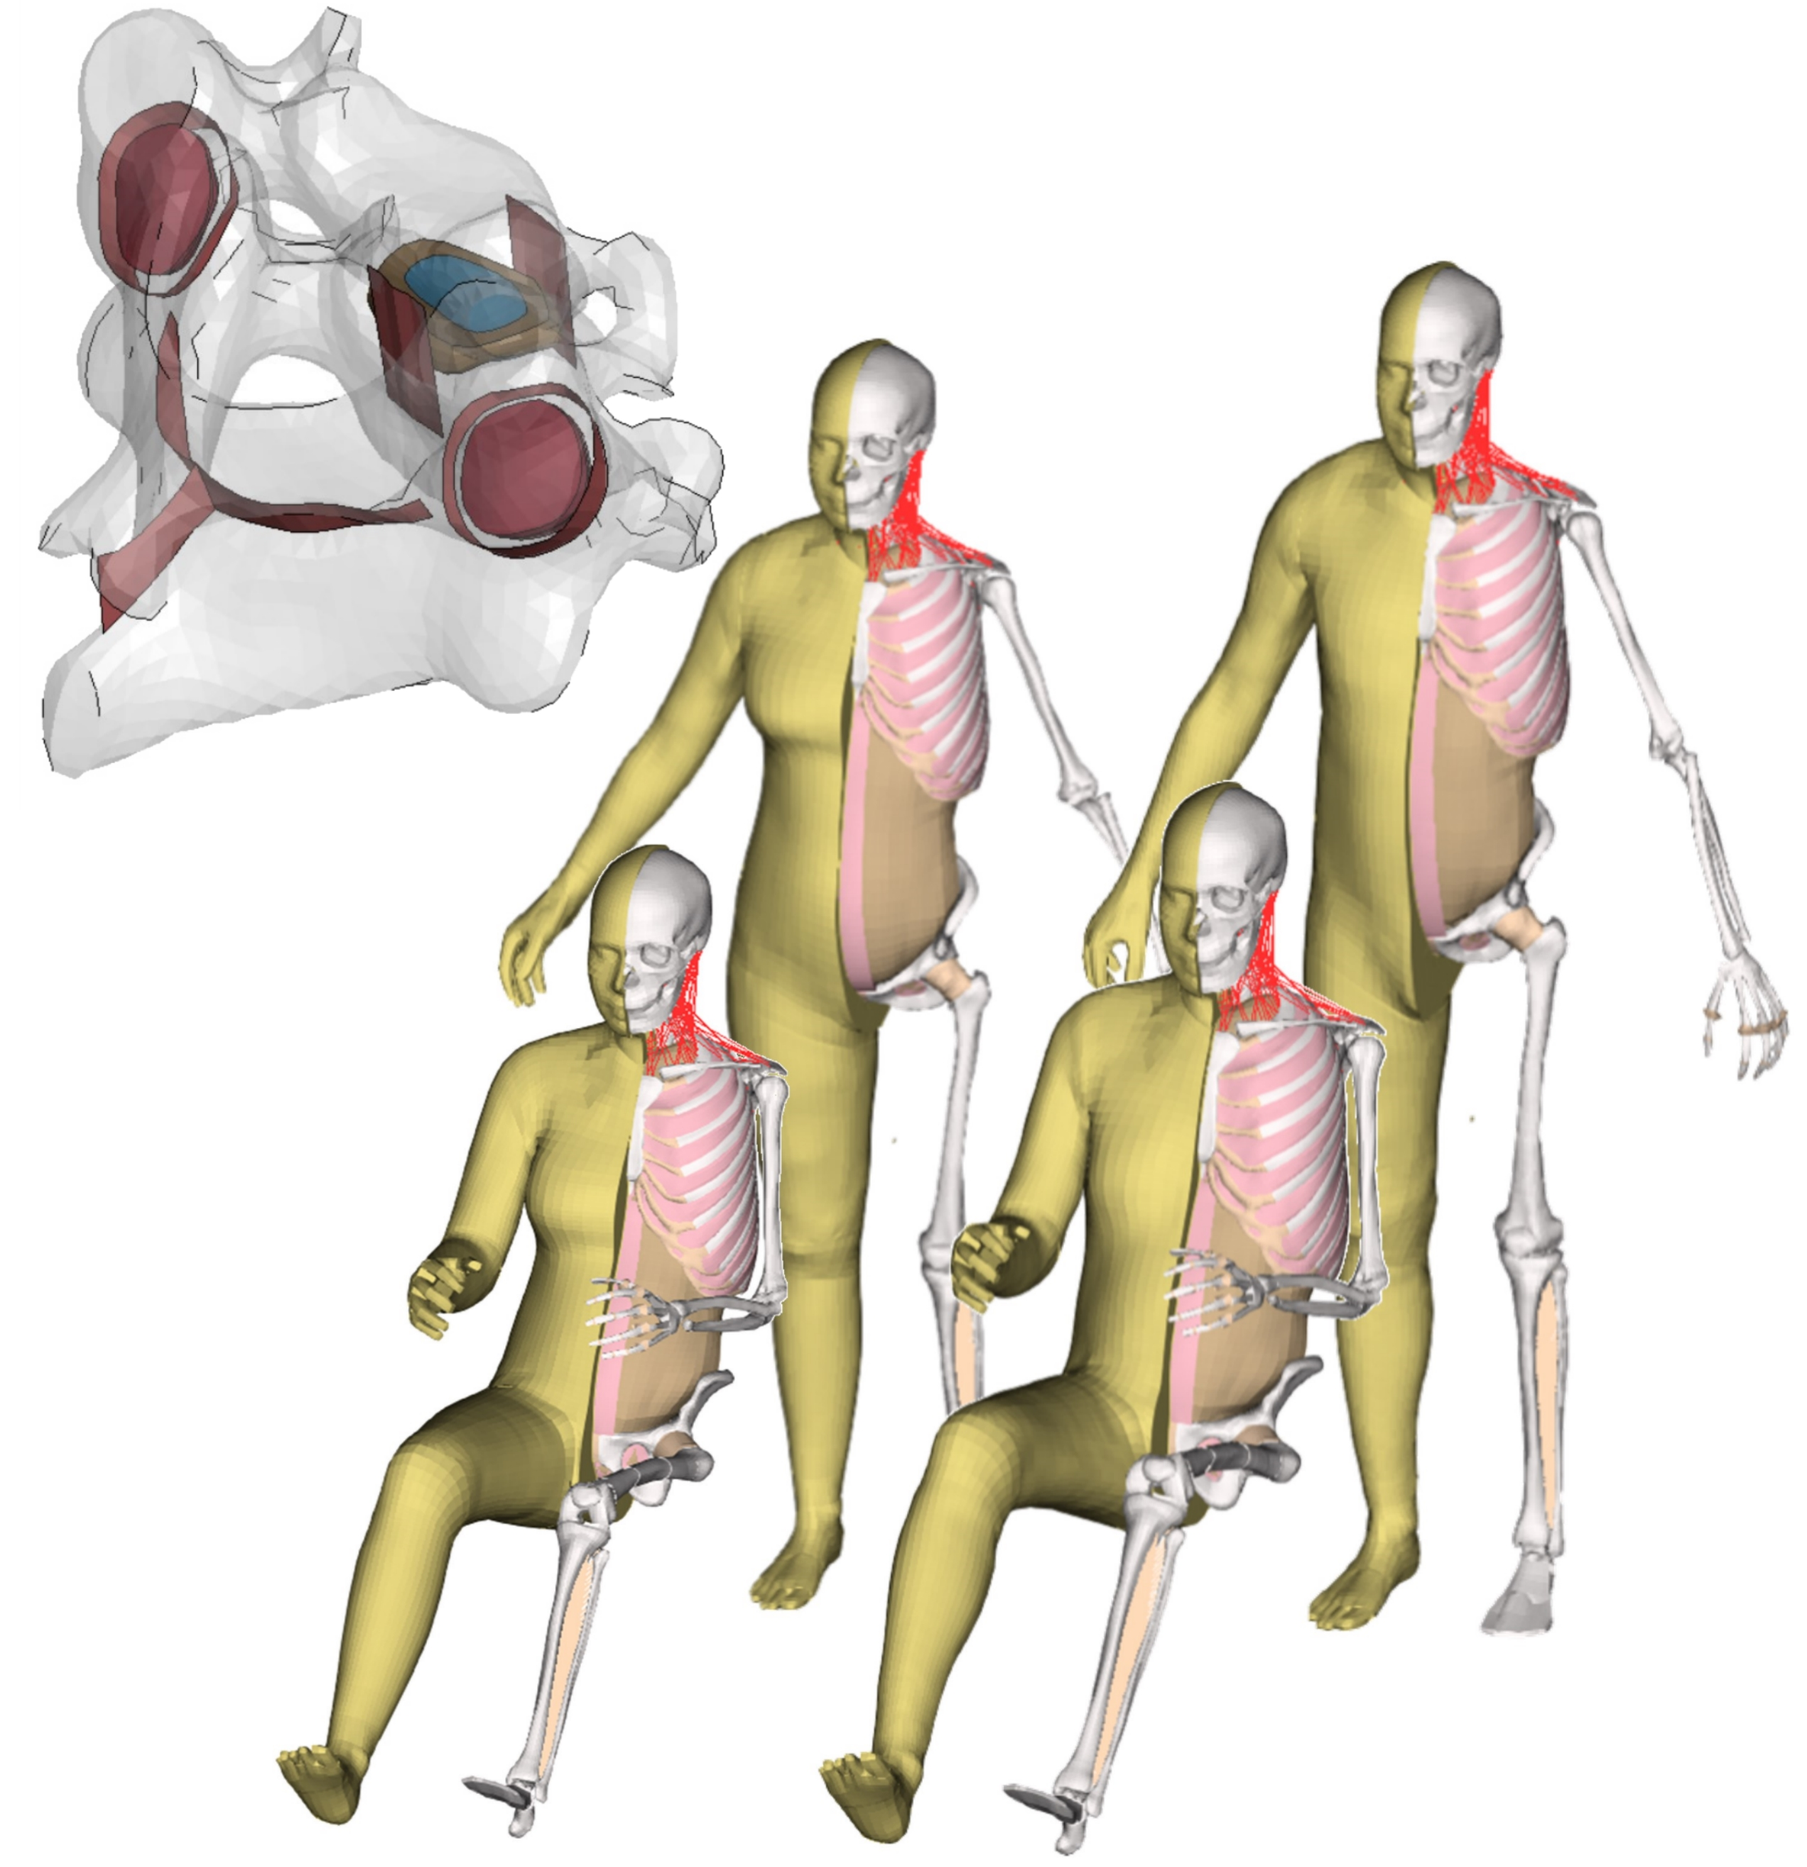
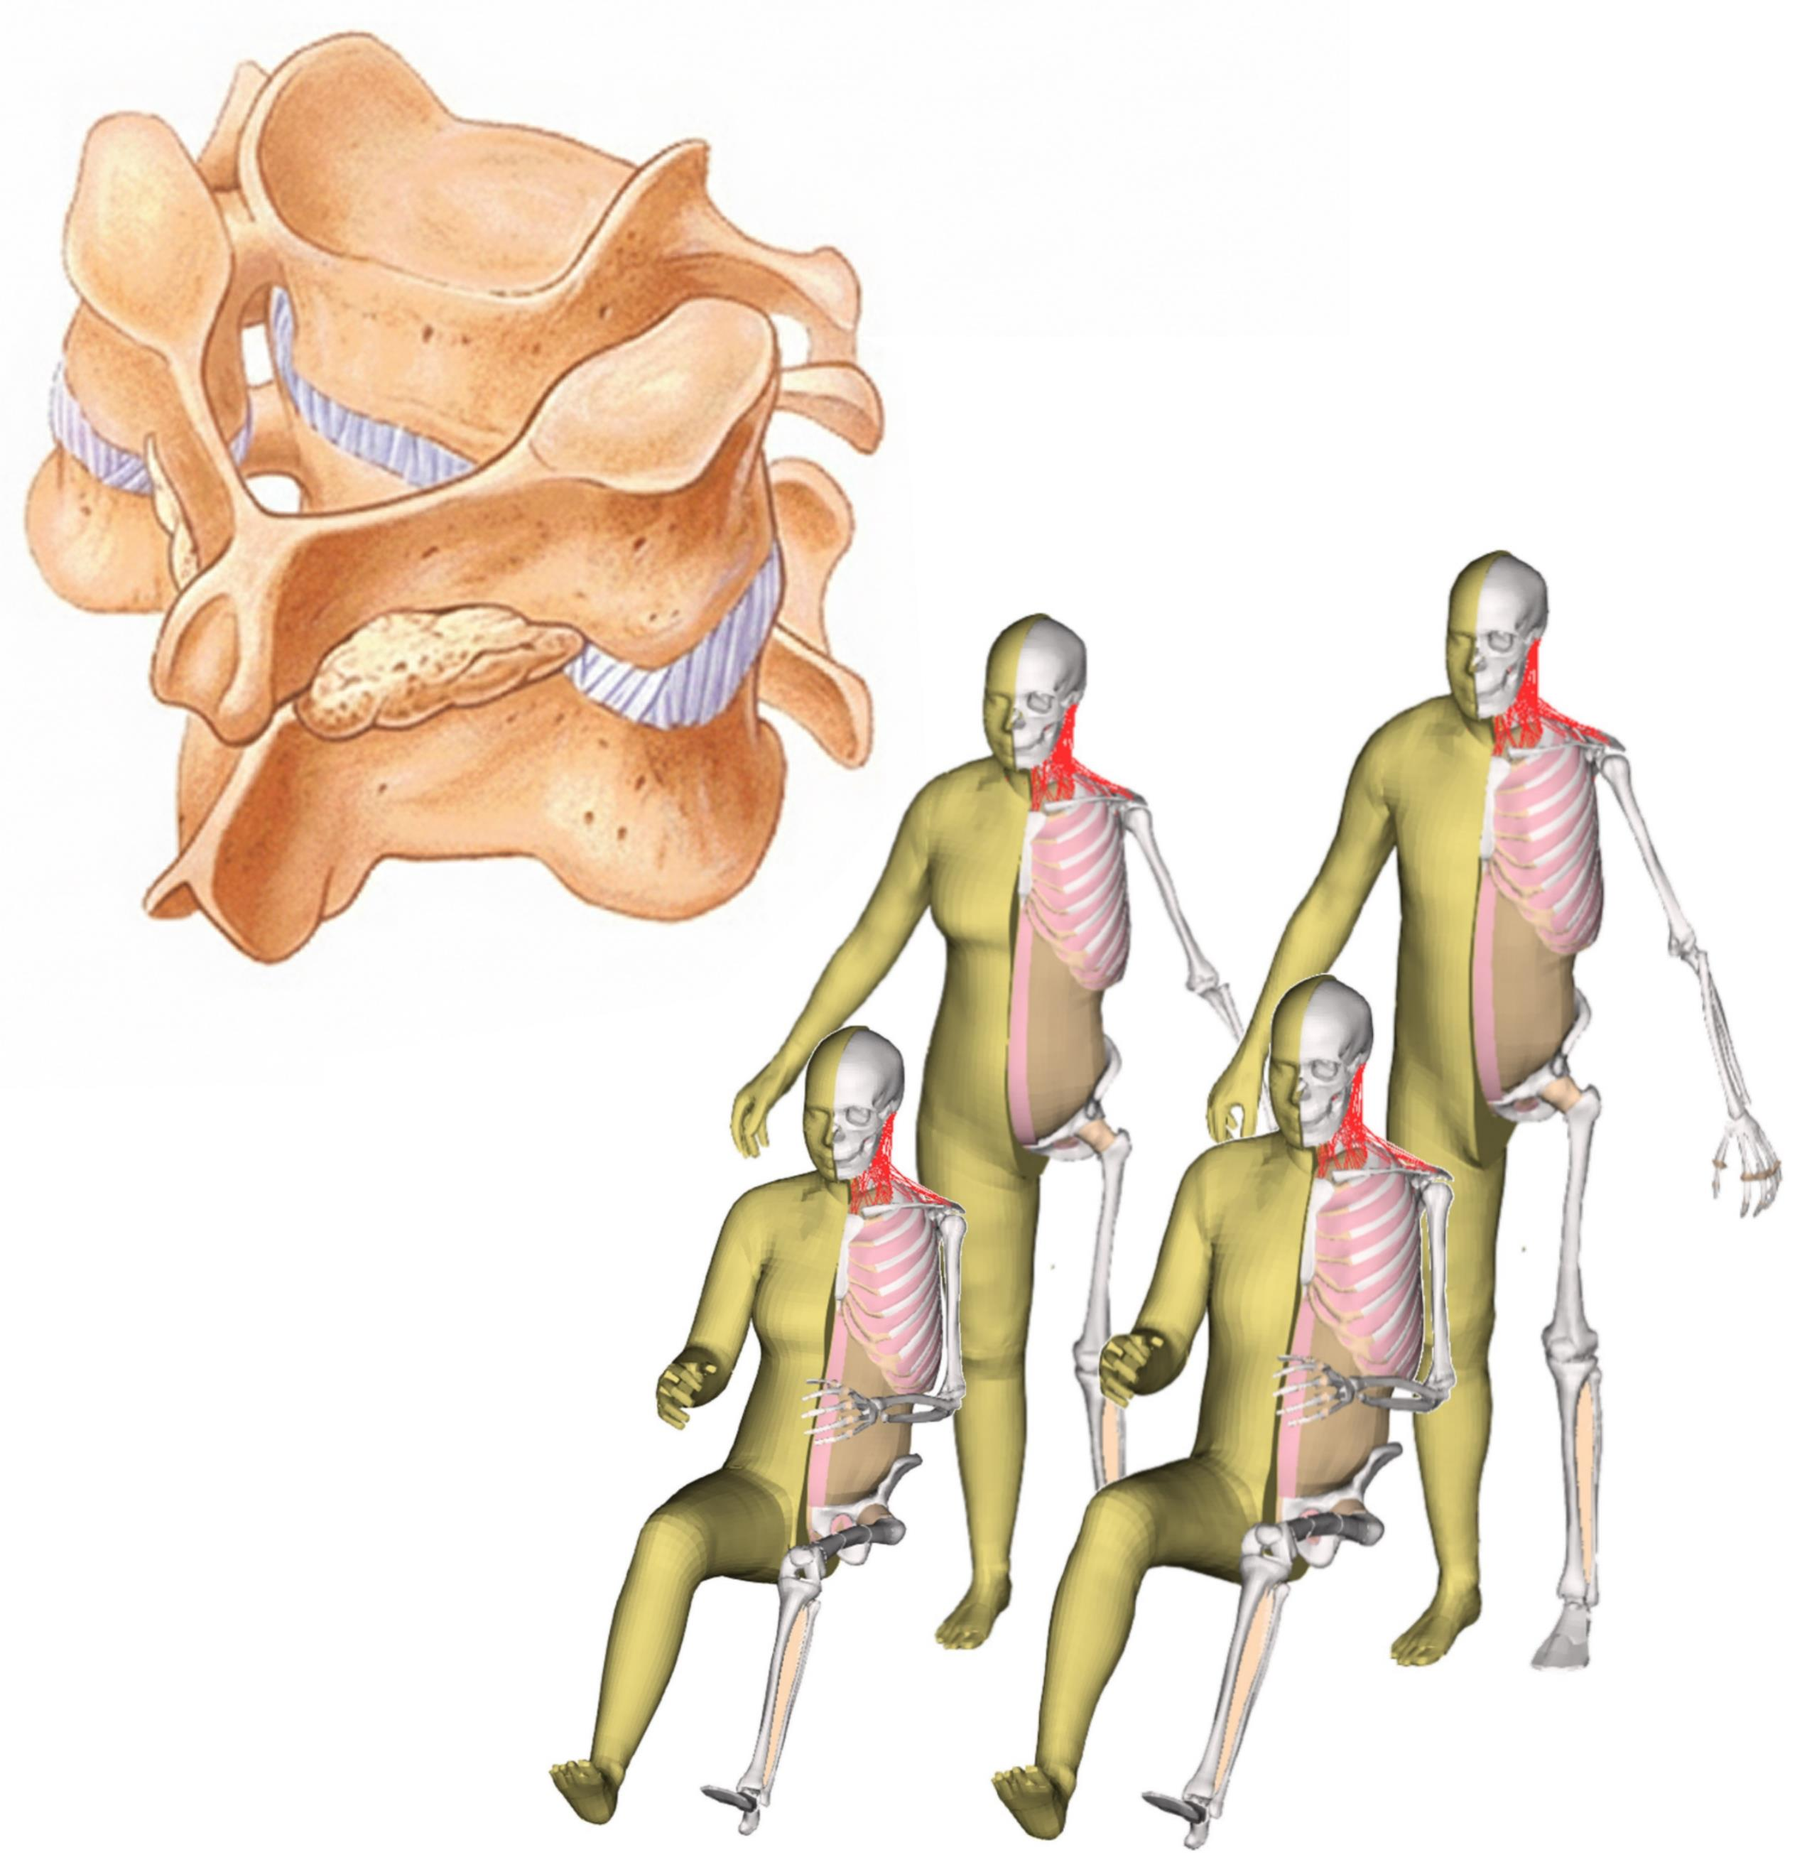
updated ppt2

diff --git a/presentation.html b/presentation.html
@@ -360,18 +360,22 @@
 <h2>Introduction</h2>
 <div class="columns">
 <div class="column" style="font-size: 0.9em;">
+<div class="fragment fade-in" data-fragment-index="1">
 <ul>
 <li>Cervical spine segment - Two vertebra, Soft tissues</li>
 <li>Female have more risk of neck injury than male in traffic accidents</li>
+</ul>
+</div>
+<div class="fragment fade-in" data-fragment-index="2">
+<ul>
 <li>Recent dummies and HBMs also focus on average female</li>
 <li>Sex-specific calibration and validation are either limited or non-existent</li>
 </ul>
+</div>
 </div><div class="column" style="width:50%;">
-<div class="quarto-figure quarto-figure-center">
-<figure>
-<p><img data-src="assets/hbm.jpg"></p>
-<figcaption>FE Human Body Models</figcaption>
-</figure>
+<div class="r-stack">
+<p><img data-src="assets/hbm0.jpg" class="fragment" data-fragment-index="1"></p>
+<p><img data-src="assets/hbm.jpg" class="fragment" data-fragment-index="2"></p>
 </div>
 </div><aside class="notes">
 <p>I assume most of the ppl in this hall would be majorly working on spine biomech. To give a small intro on C spine segments. It consists of 2 vertebra, and some ligaments in between like CL, ligamentum flavum, articular processes and so on.. then there is also IVD which have Annulus fibers and nucleus. Spinal injuries esp neck injuries in women are more than men specifically in traffic accidents. To study the injury in female, We use female HBM. However female HBMs are morphed versions of male HBMs and sex specific validation is not done on those models.</p>
@@ -408,10 +412,8 @@
 <section id="a-bit-of-background" class="slide level2">
 <h2>A Bit of Background…</h2>
 <div class="r-stack">
-<p><img data-src="assets/wheeldon2006.jpg" class="fragment absolute" style="top: 11%; left: 1%; width: 500px; "></p>
-<p><img data-src="assets/winkelstein2000.png" class="fragment absolute" style="top: 35%; left: 5%; width: 500px; "></p>
-<p><img data-src="assets/nightingale2007.jpg" class="fragment absolute" style="top: 14%; left: 45%; width: 500px; "></p>
-<p><img data-src="assets/nightingale2002.jpg" class="fragment absolute" style="top: 40%; left: 40%; width: 500px; "></p>
+<p><img data-src="assets/wheeldon2006.jpg" class="fragment absolute" style="top: 12%; left: 15%; width: 500px; "></p>
+<p><img data-src="assets/winkelstein2000.png" class="fragment absolute" style="top: 37%; left: 27%; width: 500px; "></p>
 </div>
 <aside class="notes">
 <p>To give a broader overview of avl data relevant to this study. First we have wheeldon study, there were both male &amp; female specimens but in the analysis everything were clubbed together. So we dunno the diff bw male &amp; female. Then we have this study by winkelstein but all the specimens in this study were male. Finalluy we have these studies by nightingale, where the data for male &amp; female were reported separately &amp; its available openly in NHTSA database.</p>
@@ -429,22 +431,12 @@
 </section>
 <section id="a-bit-of-background-1" class="slide level2" data-visibility="uncounted">
 <h2>A Bit of Background…</h2>
-<div class="columns">
-<div class="column" style="width:60%;">
-<ul>
-<li>Both studies are identical, differing only in sex of the specimens used</li>
-<li>Unembalmed PMHS</li>
-<li>Pure Moment Loads - Flexibility Tests (Max. 3.5Nm) &amp; Failure Tests</li>
-</ul>
-</div><div class="column" style="width:40%;">
-<p><br></p>
-<div class="quarto-figure quarto-figure-center">
-<figure>
-<p><img data-src="assets/nightingale-schematic.jpg"></p>
-<figcaption>Schematic of experimental apparatus by Nightingale et al.,</figcaption>
-</figure>
+<div class="r-stack">
+<p><img data-src="assets/nightingale2007.jpg" class="fragment absolute" style="top: 14%; left: 1%; width: 500px; " data-fragment-index="1"></p>
+<p><img data-src="assets/nightingale2002.jpg" class="fragment absolute" style="top: 40%; left: 5%; width: 500px; " data-fragment-index="2"></p>
+<p><img data-src="assets/nightingale-schematic.jpg" class="fragment absolute" style="top: 27%; left: 60%; width: 400px; " data-fragment-index="3"></p>
 </div>
-</div></div>
+<p><span class="fragment absolute" data-fragment-index="3" style="font-size: 80%;top: 68%; left: 60%; width: 400px; ">Experimental setup used by Nightingale et al.,</span></p>
 <aside class="notes">
 <p>the exp setup was same for both the nightingale studies. so it can be made as a comparable study which was not done by the original author. c spine segments were cut from unembalmed pmhs and tested in flexibility &amp; failure tests</p>
 <style type="text/css">
@@ -528,21 +520,23 @@
 <div class="columns">
 <div class="column fragment" style="font-size: 90%;">
 <!-- -->
-<h4 id="traditional-way">Traditional Way</h4>
+<h4 id="mle-approach">MLE Approach</h4>
 <p><span class="math display">\[\begin{align}
-Y &amp;= \alpha + \beta X\\
+Y &amp;= \alpha + \beta X ± \sigma\\
+\\
 \alpha &amp;= \text{Constant (Intercept)}\\
 \beta &amp;= \text{Constant (Slope)}\\
+\sigma &amp;\sim \text{Normally distributed}
 \end{align}\]</span></p>
 </div><div class="column fragment" style="font-size: 90%;">
 <!-- -->
-<h4 id="doing-it-in-a-bayesian-way">Doing it in a Bayesian way…</h4>
+<h4 id="probabilistic-approach">Probabilistic Approach</h4>
 <p><span class="math display">\[\begin{align}
-\alpha &amp;\sim \text{a distribution}\\
-\beta &amp;\sim \text{another distribution}\\
-\sigma &amp;\sim \text{some other distribution}\\
-\mu &amp;= \alpha + \beta X\\
 Y &amp;\sim \operatorname{N}(\mu,~\sigma)\\
+\mu &amp;= \alpha + \beta X\\
+\alpha &amp;\sim \text{A distribution}\\
+\beta &amp;\sim \text{Another distribution}\\
+\sigma &amp;\sim \text{Some other distribution}\\
 \end{align}\]</span></p>
 </div><aside class="notes">
 <p>From the line of best fit, you would find the parameters a &amp; b as consts. another approach is to do bayesian linear reg. where these parameters are estimated as probability distributions</p>
@@ -587,17 +581,18 @@ Y &amp;\sim \operatorname{N}(\mu,~\sigma)\\
 <section id="bayesian-model-building" class="slide level2">
 <h2>Bayesian Model Building</h2>
 <div class="columns">
-<div class="column" style="font-size: 80%;">
-<ul>
-<li>Prior data from <em>Winkelstein2000</em></li>
-<li>Hierarchical model to include effect of Sex</li>
-</ul>
-<p><img data-src="assets/prior-pred.png" class="absolute" style="top: 33%; "></p>
+<div class="column" style="font-size: 60%;">
+<p><span class="math display">\[\begin{align}
+L_i &amp;= \text{Coeff. for loading mode}\\
+l_{ij} &amp;= \text{Coeff. for loading mode specific to sex}\\
+E &amp;= \text{Residual random error}\\
+\end{align}\]</span></p>
+<p><img data-src="assets/prior-pred.png" class="absolute" style="top: 33%; height: 60%; "></p>
 </div><div class="column" style="width:45%;">
 <div class="quarto-figure quarto-figure-center">
 <figure>
 <p><img data-src="assets/bayesian-model.jpg"></p>
-<figcaption>Bayesian Linear Regression Model</figcaption>
+<figcaption>R= Segmental rotation angle at 3Nm</figcaption>
 </figure>
 </div>
 </div></div>
@@ -625,11 +620,11 @@ Y &amp;\sim \operatorname{N}(\mu,~\sigma)\\
 
 <img data-src="assets/forest-plot.png" class="quarto-figure quarto-figure-center r-stretch"><div class="columns">
 <div class="column" style="width:30%;">
-<div class="fragment fade-in" data-id="txt2" style="font-size: 0.9em; text-align: right; position: absolute; top: 155px; left: 52px;" data-fragment-index="1">
-<p>Common Effect</p>
+<div class="fragment fade-in" data-id="txt2" style="font-size: 70%; text-align: right; position: absolute; top: 157px; left: 52px;" data-fragment-index="1">
+<p>Coeff. for loading mode</p>
 </div>
-<div class="fragment fade-in" data-id="txt4" style="font-size: 0.9em; text-align: right; position: absolute; top: 375px; left: 13px;" data-fragment-index="2">
-<p>Group-level Effect</p>
+<div class="fragment fade-in" data-id="txt4" style="font-size: 70%; text-align: right; position: absolute; top: 378px; left: 13px;" data-fragment-index="2">
+<p>Coeff. for loading mode specific to sex</p>
 </div>
 </div><div class="column" style="width:60%;">
 
@@ -657,18 +652,13 @@ Y &amp;\sim \operatorname{N}(\mu,~\sigma)\\
 <h2>Contrast b/w Flexion &amp; Extension</h2>
 <div class="columns">
 <div class="column" style="width:30%;">
-<p><img data-src="assets/intact.png" class="absolute fragment fade-out" style="top: 8%; left: 1%; width: 330px; height: 330px; " data-fragment-index="1"></p>
-<p><img data-src="assets/intact.png" class="absolute fragment fade-out" style="top: 48%; left: 1%; width: 330px; height: 330px; " data-fragment-index="1"></p>
-<div class="r-stack">
-<p><img data-src="assets/fig1-p1.png" class="fragment fade-in-then-out absolute" style="top: 8%; left: 1%; width: 330px; height: 330px; " data-fragment-index="1"></p>
-<p><img data-src="assets/fig1-p2.png" class="fragment fade-in absolute" style="top: 8%; left: 1%; width: 330px; height: 330px; " data-fragment-index="2"></p>
-<p><img data-src="assets/fig2-p1.png" class="fragment fade-in-then-out absolute" style="top: 48%; left: 1%; width: 330px; height: 330px; " data-fragment-index="1"></p>
-<p><img data-src="assets/fig2-p2.png" class="fragment fade-in absolute" style="top: 48%; left: 1%; width: 330px; height: 330px; " data-fragment-index="2"></p>
-</div>
+<p><img data-src="assets/flex-ext.png" class="absolute" style="top: 25%; width: 375px; "></p>
 </div><div class="column" style="width:70%;">
-<p><img data-src="assets/contrast-sexwise.png" height="525"></p>
+<div class="r-stack">
+<p><img data-src="assets/contrast-sexwise0.png" class="fragment" height="575"></p>
+<p><img data-src="assets/contrast-sexwise1.png" class="fragment" height="575"></p>
+</div>
 </div></div>
-
 <aside class="notes">
 <p>You could see a more fancier version of previous plot in this slide. In male, the top left plot, the dist of segmental rot at 3nm. the dist of flex &amp; ext, they overlap, they are not different. Then if you look at the left bottom plot, for female, the ext is similar to male &amp; the flex is higher &amp; they dont overlap. And we can quantify that using contrast plots. the contrast dist is a diff of 2 dist. And in this case its the difference of flex &amp; ext. if yu look for male in top right , its distributed around 0 which means there is no diff between flex &amp; ext. But when we come to the female, we see the contrast dist is not abt 0, rather its about 4 deg showing that there is significant diff b/w flex &amp; ext in female.</p>
 <style type="text/css">
@@ -682,25 +672,13 @@ Y &amp;\sim \operatorname{N}(\mu,~\sigma)\\
           overflow: hidden!important;
           display:block!important;
       }</style></aside>
-<aside><div>
-<p>FSU figures are for illustrative purpose only!</p>
-</div></aside></section>
+</section>
 <section id="contrast-bw-female-male" class="slide level2">
 <h2>Contrast b/w Female &amp; Male</h2>
-<div class="columns">
-<div class="column" style="width:30%;">
-<p><img data-src="assets/intact.png" class="absolute fragment fade-out" style="top: 8%; left: 1%; width: 330px; height: 330px; " data-fragment-index="1"></p>
-<p><img data-src="assets/intact.png" class="absolute fragment fade-out" style="top: 48%; left: 1%; width: 330px; height: 330px; " data-fragment-index="1"></p>
 <div class="r-stack">
-<p><img data-src="assets/fig3-p1.png" class="fragment fade-in-then-out absolute" style="top: 8%; left: 1%; width: 330px; height: 330px; " data-fragment-index="1"></p>
-<p><img data-src="assets/fig3-p2.png" class="fragment fade-in absolute" style="top: 8%; left: 1%; width: 330px; height: 330px; " data-fragment-index="2"></p>
-<p><img data-src="assets/fig4-p1.png" class="fragment fade-in-then-out absolute" style="top: 48%; left: 1%; width: 330px; height: 330px; " data-fragment-index="1"></p>
-<p><img data-src="assets/fig4-p2.png" class="fragment fade-in absolute" style="top: 48%; left: 1%; width: 330px; height: 330px; " data-fragment-index="2"></p>
+<p><img data-src="assets/contrast-loadwise0.png" class="fragment" height="575"></p>
+<p><img data-src="assets/contrast-loadwise1.png" class="fragment" height="575"></p>
 </div>
-</div><div class="column" style="width:70%;">
-<p><img data-src="assets/contrast-loadwise.png" height="525"></p>
-</div></div>
-
 <aside class="notes">
 <p>Now we can see the data in a different way also. you could see the differnece in male &amp; female in extension which is in top row.. and flexion is in bottom row. Anyways we see similar differences.</p>
 <style type="text/css">
@@ -714,22 +692,22 @@ Y &amp;\sim \operatorname{N}(\mu,~\sigma)\\
           overflow: hidden!important;
           display:block!important;
       }</style></aside>
-<aside><div>
-<p>FSU figures are for illustrative purpose only!</p>
-</div></aside></section>
+</section>
 <section id="conclusion" class="slide level2">
 <h2>Conclusion</h2>
 <ul>
-<li>Male and female segments in extension tends to be similar</li>
-<li>But in flexion, the female rotation was 4.5° more than male in average</li>
-<li>Female cervical spine segmental kinematics cannot be considered as size-scaled versions of male</li>
+<li>Male and female segments in <strong>extension tends to be similar</strong></li>
+<li>But <strong>in flexion, the female rotation was 4.5° more</strong> than male in average</li>
+<li>Female cervical spine segmental kinematics <strong><em>cannot</em></strong> be considered as size-scaled versions of male</li>
 </ul>
 </section>
 <section id="future-study" class="slide level2">
 <h2>Future Study</h2>
-</section>
+
+<img data-src="assets/future.png" class="quarto-figure quarto-figure-center r-stretch"></section>
 <section id="acknowledgement" class="slide level2">
 <h2>Acknowledgement</h2>
+<p>The authors would like to acknowledge support from grants ANRF-SERB-CRG (CRG/2023/004727) and SPARC (SP23241582EDSPAR008343) in India and Swedish Transport Administration/Trafikverket grant (TRV2024/107142).</p>
 </section>
 <section id="section-1" class="slide level2" data-background-color="white">
 <h2><img data-src="assets/title-logos.png"></h2>
@@ -991,7 +969,6 @@ l_{ij} \sim \operatorname{Normal}(0,~\sigma_{l_{i}})
           display:block!important;
       }</style></aside>
 <div class="quarto-auto-generated-content">
-<p><img src="assets/ircobi-logo.jpg" class="slide-logo"></p>
 <div class="footer footer-default">
 <p>Comparison of Flexion–Extension Responses between Male and Female sub-Axial Cervical Spine Segments</p>
 </div>
